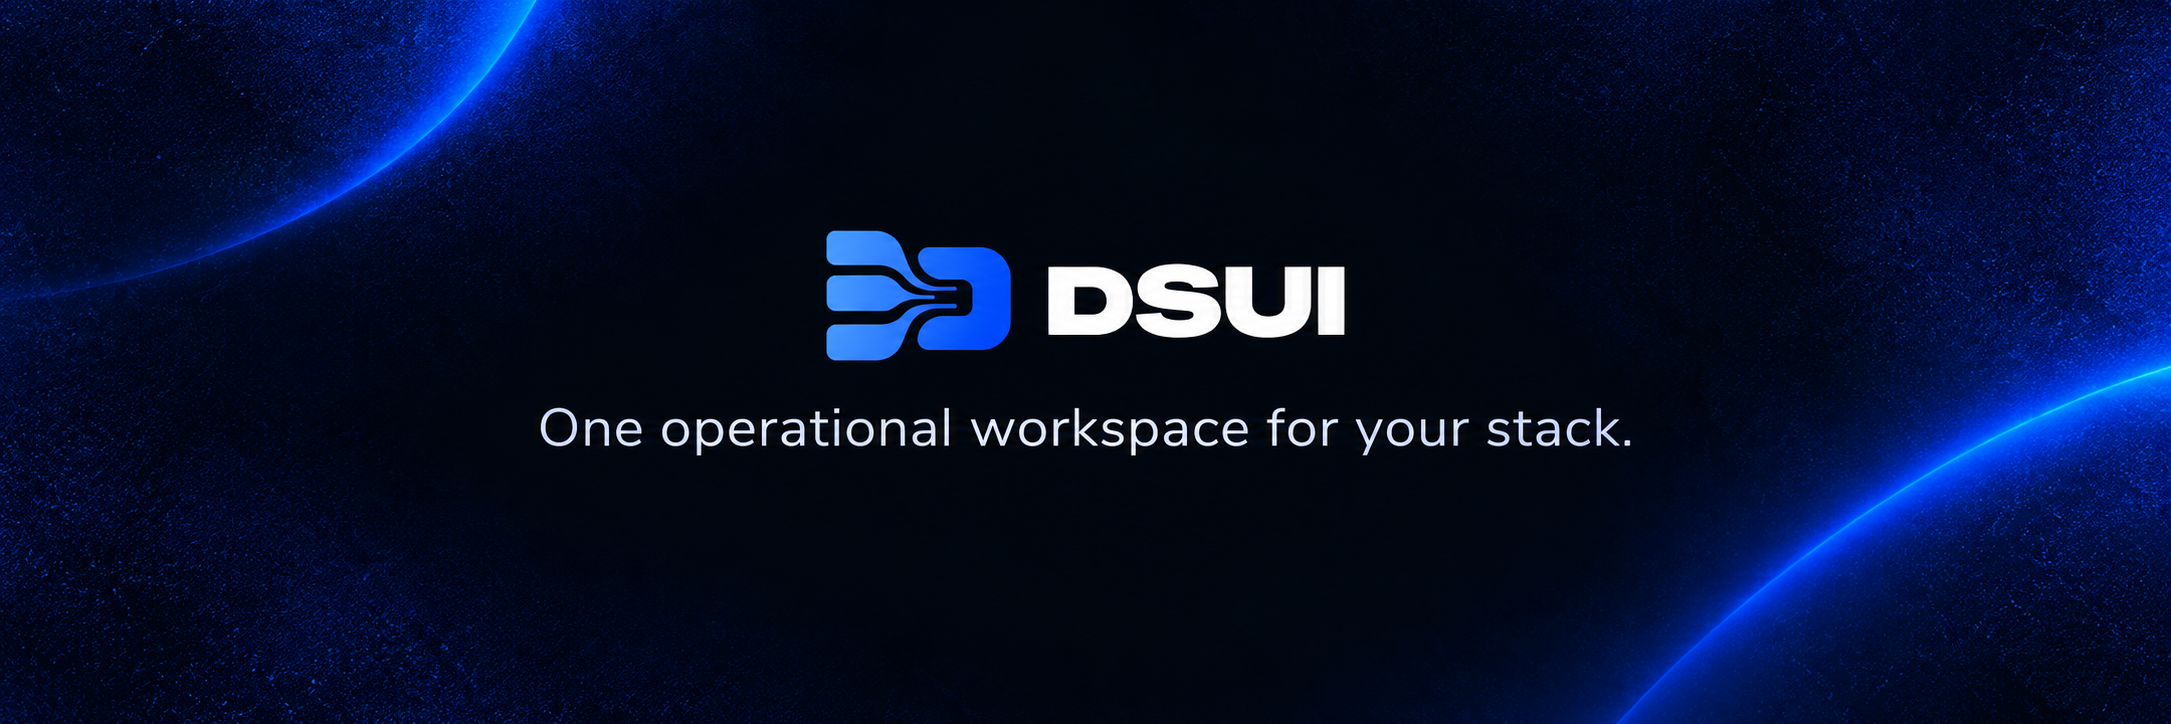
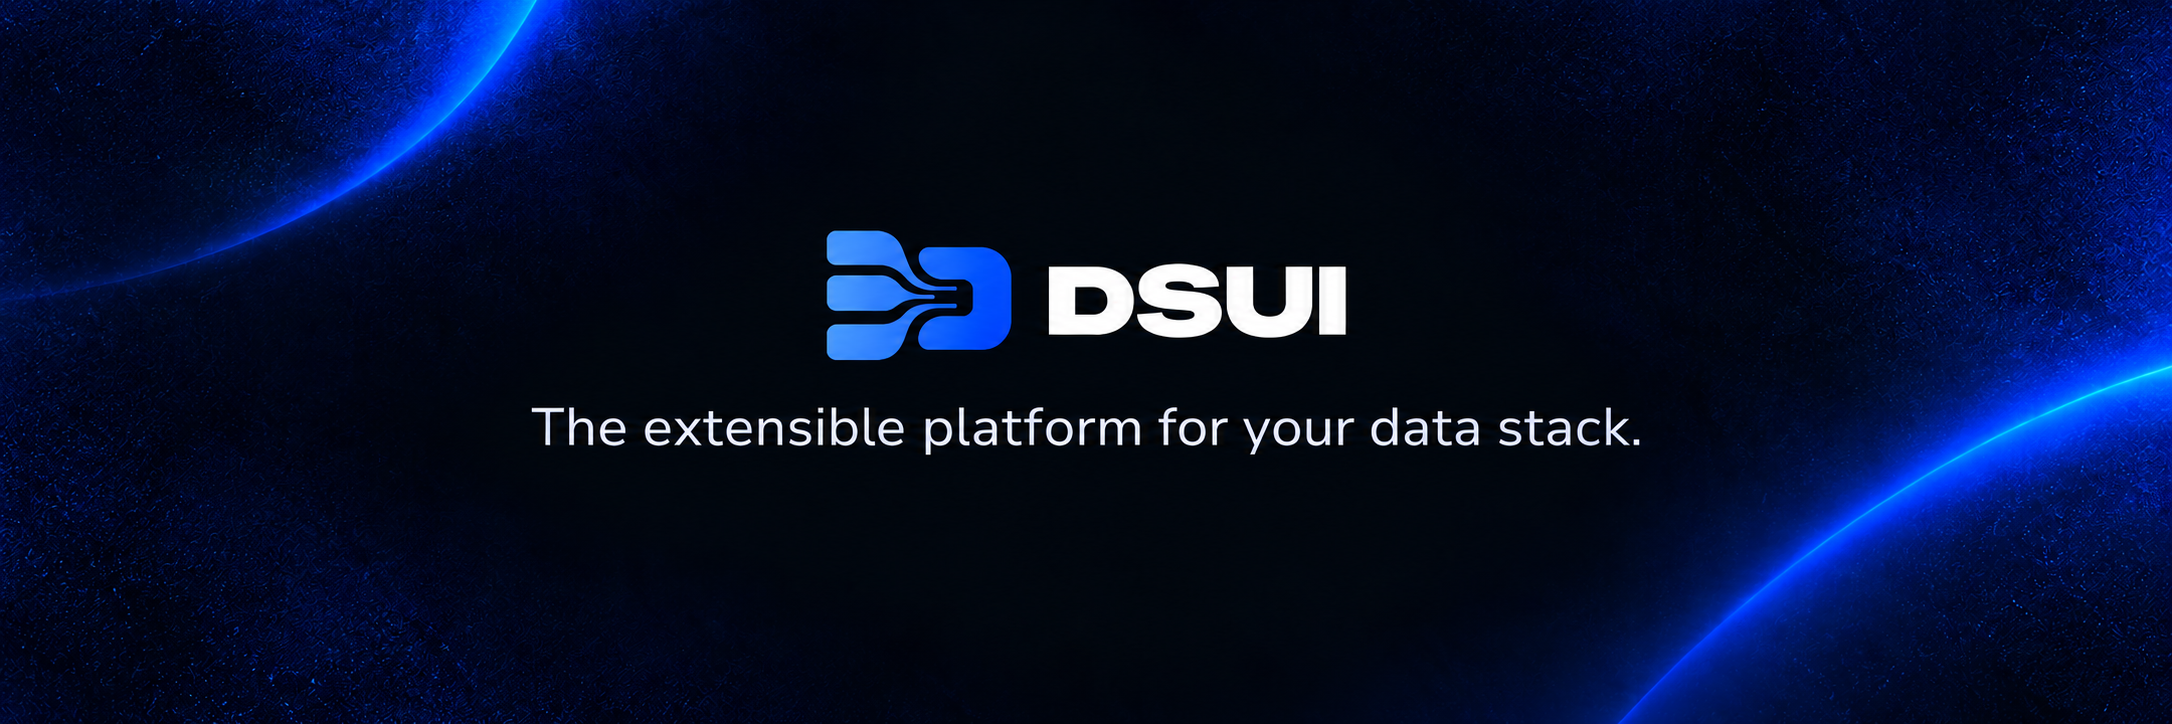
docs: align README and documentation with platform positioning
Fixes DSUI-132

DuckDB startup validation remains tracked separately in DSUI-142.

diff --git a/apps/docs/src/components/catalog/PrimitivePreview.tsx b/apps/docs/src/components/catalog/PrimitivePreview.tsx
@@ -122,7 +122,7 @@ const examples: Record<string, readonly PageNode[]> = {
   flex: [
     Flex({
       content: [
-        Badge({ label: "Trino", tone: "info" }),
+        Badge({ label: "PostgreSQL", tone: "info" }),
         Badge({ label: "Connected", tone: "healthy", dot: true }),
       ],
       align: "center",
@@ -134,7 +134,11 @@ const examples: Record<string, readonly PageNode[]> = {
     Form({
       schema: previewSchema,
       fields: [
-        TextInput({ name: "endpoint", label: "Endpoint", value: "trino:8080" }),
+        TextInput({
+          name: "endpoint",
+          label: "Endpoint",
+          value: "postgres:5432",
+        }),
         Select({
           name: "mode",
           label: "Mode",
@@ -154,7 +158,11 @@ const examples: Record<string, readonly PageNode[]> = {
       columns: 2,
       gap: "sm",
       content: [
-        Card({ title: "Trino", description: "trino:8080", variant: "subtle" }),
+        Card({
+          title: "PostgreSQL",
+          description: "postgres:5432",
+          variant: "subtle",
+        }),
         Card({ title: "Kafka", description: "kafka:9092", variant: "subtle" }),
       ],
     }),
@@ -172,7 +180,7 @@ const examples: Record<string, readonly PageNode[]> = {
   "key-value": [
     KeyValue({
       title: "Connection",
-      data: { Status: "Healthy", Endpoint: "trino:8080", Catalogs: 4 },
+      data: { Status: "Healthy", Endpoint: "postgres:5432", Databases: 4 },
     }),
   ],
   link: [
@@ -195,11 +203,11 @@ const examples: Record<string, readonly PageNode[]> = {
   ],
   "page-header": [
     PageHeader({
-      title: "Production Trino",
+      title: "Production PostgreSQL",
       description: "Shared query engine",
       icon: "database",
       badge: { label: "Healthy", tone: "healthy" },
-      meta: "trino:8080",
+      meta: "postgres:5432",
       variant: "detail",
       actions: Button({ label: "Open", variant: "primary", link: "/open" }),
     }),
@@ -280,7 +288,7 @@ const examples: Record<string, readonly PageNode[]> = {
   table: [
     Table({
       data: [
-        { service: "Trino", endpoint: "trino:8080", status: "Healthy" },
+        { service: "PostgreSQL", endpoint: "postgres:5432", status: "Healthy" },
         { service: "Kafka", endpoint: "kafka:9092", status: "Healthy" },
       ],
       columns: [
@@ -299,7 +307,7 @@ const examples: Record<string, readonly PageNode[]> = {
         },
         {
           label: "Configuration",
-          content: CodeBlock({ label: "Endpoint", value: "trino:8080" }),
+          content: CodeBlock({ label: "Endpoint", value: "postgres:5432" }),
         },
       ],
     }),
@@ -308,7 +316,7 @@ const examples: Record<string, readonly PageNode[]> = {
     TextInput({
       name: "endpoint",
       label: "Endpoint",
-      value: "trino:8080",
+      value: "postgres:5432",
       placeholder: "host:port",
     }),
   ],
@@ -319,7 +327,7 @@ const client: RendererClient = {
   async executeResource(reference) {
     if (reference.resourceId === "service-list") {
       return [
-        { name: "Trino", endpoint: "trino:8080" },
+        { name: "PostgreSQL", endpoint: "postgres:5432" },
         { name: "Kafka", endpoint: "kafka:9092" },
       ];
     }
@@ -330,7 +338,7 @@ const client: RendererClient = {
       ];
     }
     return {
-      name: "Production Trino",
+      name: "Production PostgreSQL",
       status: "Healthy",
       size: 51_754_876_928,
     };

diff --git a/scripts/package-npm.ts b/scripts/package-npm.ts
@@ -170,7 +170,8 @@ await writeFile(
     {
       name: "@northgraindata/dsui",
       version,
-      description: "A local operational workspace for your data stack.",
+      description:
+        "Open-source, extensible platform for your data stack. Connect tools, install plugins, and build custom capabilities.",
       type: "module",
       bin: { dsui: "bin/dsui.mjs" },
       exports: { "./plugin-sdk": "./dist/plugin-sdk.mjs" },

diff --git a/README.md b/README.md
@@ -1,18 +1,18 @@
-![DSUI — One operational workspace for your stack.](./assets/readme/banner.png)
+![DSUI — The extensible platform for your data stack.](./assets/readme/banner.png)
 
-[Website](https://dsui.northgraindata.com) · [Docs](https://dsui.northgraindata.com/docs) · [GitHub](https://github.com/northgraindata/dsui)
+[Website](https://dsui.northgraindata.com) · [Live Demo](https://dsui.northgraindata.com/demo) · [Documentation](https://dsui.northgraindata.com/docs)
 
-# One operational workspace for your stack.
+# The extensible platform for your data stack.
 
-Connect, explore and operate the data and infrastructure tools you already run.
+Open-source, extensible platform for your data stack. Connect tools, install plugins, and build custom capabilities.
 
 ![CI](https://github.com/northgraindata/dsui/actions/workflows/ci.yml/badge.svg)![Release](https://img.shields.io/github/v/release/northgraindata/dsui?include_prereleases)![Apache-2.0](https://img.shields.io/badge/license-Apache--2.0-blue)![Container](https://img.shields.io/badge/ghcr.io-dsui-536edb)
 
 ![DSUI workspace overview showing connected data and infrastructure services](./assets/readme/product.png)
 
-## Spend less time setting up tooling
+## Connect tools, install plugins, and build custom capabilities
 
-A data stack can mean a separate interface, container, configuration, and port for every service. DSUI gives the tools you already run one consistent workspace.
+Your tools, your infrastructure, your capabilities. Extend DSUI to fit the way your team works.
 
 ## Get started
 
@@ -40,6 +40,13 @@ runtime, provide it in the image used to run DSUI.
 Configure a DuckDB database in `dsui.yaml`:
 
 ```yaml
+adapters:
+  duckdb:
+    source: git
+    repository: "git+https://github.com/northgraindata/dsui"
+    ref: main
+    path: packages/adapter-duckdb
+
 services:
   - id: warehouse
     adapter: duckdb
@@ -73,24 +80,28 @@ Start the workspace:
 docker compose up -d
 ```
 
-Open [http://localhost:4192](http://localhost:4192). DSUI loads its bundled DuckDB adapter and opens the database file in the persistent `/data` volume. Add your other services to the same `dsui.yaml` and Compose network.
+Open [http://localhost:4192](http://localhost:4192). DSUI downloads and builds the configured DuckDB adapter, then opens the database file in the persistent `/data` volume. Add your other services to the same `dsui.yaml` and Compose network.
 
 ## Adapters
 
-Connect Apache Airflow, dbt, PostgreSQL, Trino, S3-compatible storage such as MinIO, and DuckDB through one workspace.
+Connect Apache Airflow, dbt, PostgreSQL, S3-compatible storage such as MinIO, and DuckDB through adapters that bring service-specific capabilities into DSUI.
 
-
-|                                                       |                                               |                                                             |                                                       |                                                   |                                                |                                                         |
-| ----------------------------------------------------- | --------------------------------------------- | ----------------------------------------------------------- | ----------------------------------------------------- | ------------------------------------------------- | ---------------------------------------------- | ------------------------------------------------------- |
-| <img src="./apps/site/public/assets/logos/airflow.svg" width="56" alt="Apache Airflow" /> | <img src="./apps/site/public/assets/logos/dbt.png" width="56" alt="dbt" /> | <img src="./apps/site/public/assets/logos/postgresql.svg" width="56" alt="PostgreSQL" /> | <img src="./apps/site/public/assets/logos/trino.png" width="56" alt="Trino" /> | <img src="./apps/site/public/assets/logos/s3.svg" width="56" alt="Amazon S3" /> | <img src="./apps/site/public/assets/logos/minio.svg" width="56" alt="MinIO" /> | <img src="./apps/site/public/assets/logos/duckdb.svg" width="56" alt="DuckDB" /> |
-
+|                                                       |                                               |                                                             |                                                       |                                                   |                                                |
+| ----------------------------------------------------- | --------------------------------------------- | ----------------------------------------------------------- | ----------------------------------------------------- | ------------------------------------------------- | ---------------------------------------------- |
+| <img src="./apps/site/public/assets/logos/airflow.svg" width="56" alt="Apache Airflow" /> | <img src="./apps/site/public/assets/logos/dbt.png" width="56" alt="dbt" /> | <img src="./apps/site/public/assets/logos/postgresql.svg" width="56" alt="PostgreSQL" /> | <img src="./apps/site/public/assets/logos/s3.svg" width="56" alt="Amazon S3" /> | <img src="./apps/site/public/assets/logos/minio.svg" width="56" alt="MinIO" /> | <img src="./apps/site/public/assets/logos/duckdb.svg" width="56" alt="DuckDB" /> |
 
 
 
 **Need another tool?**
-The TypeScript [Adapter SDK](https://dsui.northgraindata.com/docs/adapter-sdk) lets you bring internal services and community adapters into the same workspace.
+The TypeScript [Adapter SDK](https://dsui.northgraindata.com/docs/adapter-sdk/overview) lets you build custom integrations for internal services and other tools.
 
-DSUI runs in your environment and keeps its local state in `/data`. It does not need a separate database or control plane. The official container image is published through GitHub Container Registry:
+## Plugins and custom capabilities
+
+Install plugins to extend DSUI beyond connected services. Use the TypeScript [Plugin SDK](https://dsui.northgraindata.com/docs/plugin-sdk/overview) to build custom pages, actions, and workflows tailored to your infrastructure.
+
+## Self-hosted deployment
+
+The official container keeps its local state in `/data`. It does not need a separate database or control plane. The official container image is published through GitHub Container Registry:
 
 ```bash
 docker pull ghcr.io/northgraindata/dsui:latest
